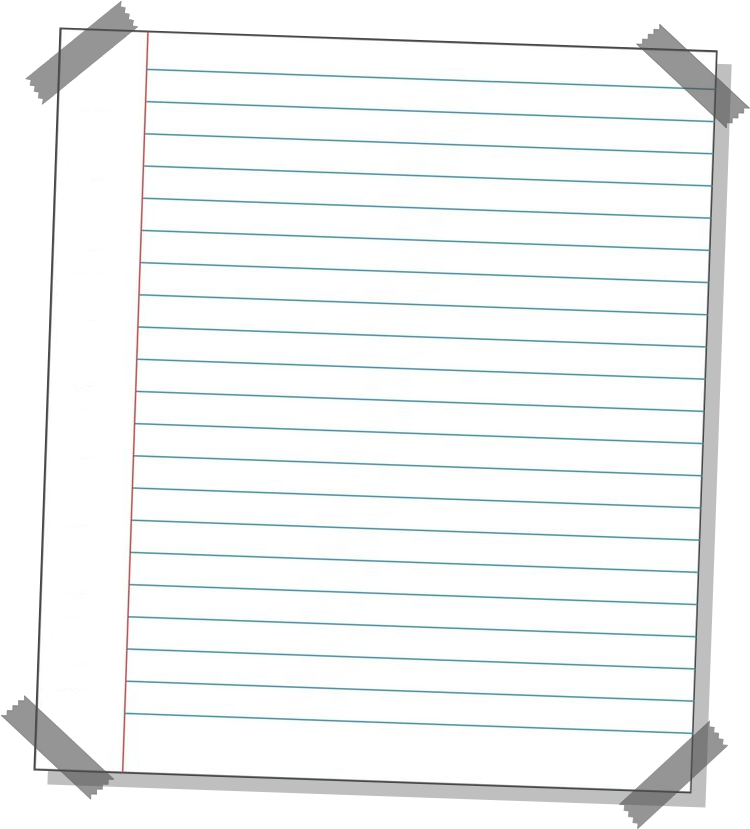
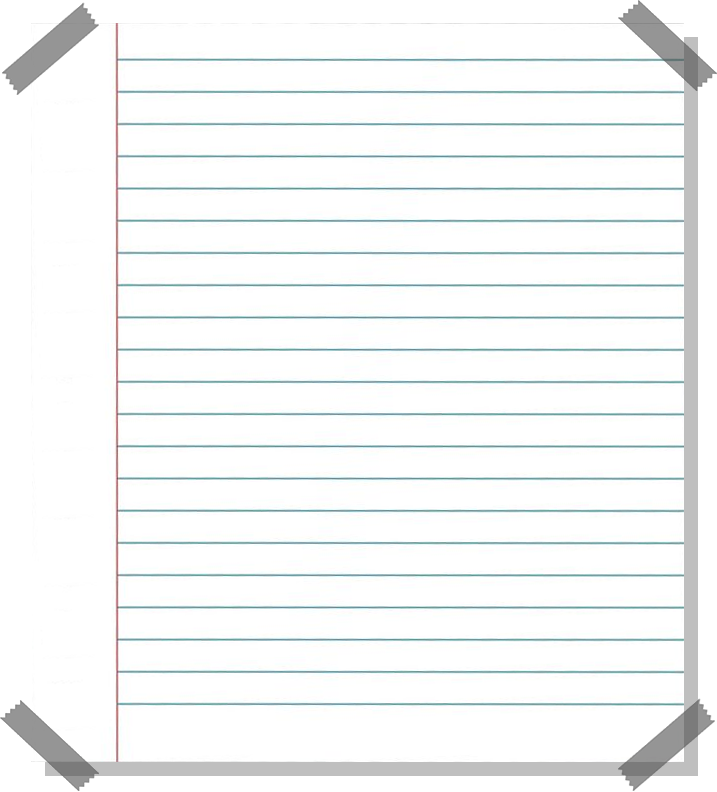
style: mobile styles

Changed region(s): [[0.0, 0.0, 1.0, 1.0]]

diff --git a/src/components/bio-paper/index.module.scss b/src/components/bio-paper/index.module.scss
@@ -1,79 +1,46 @@
 .paper {
   position: relative;
+  display: flex;
 
   .paperImage {
-    @include responsive(
-      width,
-      (
-        lg: $paper-image-lg,
-        md: $paper-image-md,
-        sm: $paper-image-sm,
-      )
-    );
+    transform: rotate(2deg);
+    z-index: 1;
+    max-width: 717px;
+    width: 100%;
+    @include respond-max(xl) {
+      transform: none;
+    }
   }
 
   .signature,
   .text {
+    z-index: 2;
     transform: rotate(2deg);
     position: absolute;
     color: $blue-color;
-    line-height: $paper-line-height-xl;
-    font-size: $paper-text-xl;
+    font-size: clamp(12px, 100vw * 0.045, 28px);
 
-    @include responsive(
-      line-height,
-      (
-        lg: $paper-line-height-lg,
-        md: $paper-line-height-md,
-        sm: $paper-line-height-sm,
-      )
-    );
-
-    @include responsive(
-      font-size,
-      (
-        lg: $paper-text-lg,
-        md: $paper-text-md,
-        sm: $paper-text-sm,
-      )
-    );
+    @include respond-max(xl) {
+      transform: none;
+    }
   }
 
   .text {
-    padding: 10% 7% 0 20%;
+    @include flex-column;
+    aspect-ratio: 540 / 645;
+    margin-left: 18%;
+    margin-top: 8.5%;
+    --lh: 32.5px;
+    line-height: var(--lh);
+    gap: var(--lh);
+    height: 82.3%;
 
     .section {
       @include flex-column();
-      margin-bottom: $paper-line-height-lg;
-
-      @include responsive(
-        margin-bottom,
-        (
-          lg: $paper-line-height-lg,
-          md: $paper-line-height-md,
-          sm: $paper-line-height-sm,
-        )
-      );
-
       .row {
         @include flex();
-
         .title {
-          $paper-title-widths: (
-            lg: $paper-title-width-lg,
-            md: $paper-title-width-md,
-            sm: $paper-title-width-sm,
-          );
-
-          width: $paper-title-width-xl;
-          @include responsive(
-            width,
-            (
-              lg: $paper-title-width-lg,
-              md: $paper-title-width-md,
-              sm: $paper-title-width-sm,
-            )
-          );
+          width: 30%;
         }
       }
     }
@@ -81,7 +48,7 @@
 
   .signature {
     text-decoration: underline;
-    bottom: 12.5%;
+    bottom: 11%;
     right: 10%;
   }
 }

diff --git a/src/components/bio-paper/index.tsx b/src/components/bio-paper/index.tsx
@@ -1,20 +1,44 @@
-import type { ReactNode } from "react"
-import styles from "./index.module.scss"
 import PaperImage from "@/assets/Paper.png"
+import { useLayoutEffect, useRef, type ReactNode } from "react"
+import styles from "./index.module.scss"
 
 export type BioRowProps = {
   title: string
   description: string
 }
-
 export type BioSectionProps = {
   items: BioRowProps[]
 }
 
 export const BioPaper = ({ children }: { children: ReactNode }) => {
+  const textRef = useRef<HTMLDivElement>(null)
+
+  const updateLineHeight = () => {
+    if (!textRef.current) return
+    const height = textRef.current.offsetHeight
+    const value = height / 20
+    if (value !== 0) {
+      textRef.current.style.setProperty("--lh", `${value}px`)
+    }
+  }
+
+  useLayoutEffect(() => {
+    if (!textRef.current) return updateLineHeight()
+    const handleResize = () => updateLineHeight()
+    window.addEventListener("resize", handleResize)
+    const observer = new ResizeObserver(() => updateLineHeight())
+    observer.observe(textRef.current)
+    return () => {
+      window.removeEventListener("resize", handleResize)
+      observer.disconnect()
+    }
+  }, [])
+
   return (
     <div className={styles.paper}>
-      <div className={styles.text}>{children}</div>
+      <div ref={textRef} className={styles.text}>
+        {children}
+      </div>
       <img alt="paper" src={PaperImage} className={styles.paperImage} />
       <div className={styles.signature}>@KarpovDU</div>
     </div>
@@ -34,8 +58,7 @@ export const BioSection = ({ items }: BioSectionProps) => {
 const BioRow = ({ title, description }: BioRowProps) => {
   return (
     <div className={title !== "Description" ? styles.row : ""}>
-      <span className={styles.title}>{title}: </span>
-      <span className={styles.description}>{description}</span>
+      <span className={styles.title}>{title}: </span> <span className={styles.description}>{description}</span>
     </div>
   )
 }

diff --git a/src/styles/_variables.scss b/src/styles/_variables.scss
@@ -11,56 +11,3 @@ $spacing-xl: 40px;
 $spacing-lg: 30px;
 $spacing-md: 20px;
 $spacing-sm: 10px;
-
-// HEADER //
-
-// Text size
-$header-text-xl: 48px;
-$header-text-lg: 36px;
-$header-text-md: 24px;
-$header-text-sm: 14px;
-
-// Header image sizes
-$header-image-xl: 750px;
-$header-image-lg: 550px;
-$header-image-md: 350px;
-$header-image-sm: 250px;
-
-// BIO //
-
-// Portrait image size
-$portrait-image-lg: 300px;
-$portrait-image-md: 200px;
-$portrait-image-sm: 150px;
-
-// PAPER //
-
-// Paper image size
-$paper-image-lg: 550px;
-$paper-image-md: 350px;
-$paper-image-sm: 250px;
-
-// Paper line height
-$paper-line-height-xl: 35px;
-$paper-line-height-lg: 23.8px;
-$paper-line-height-md: 15.2px;
-$paper-line-height-sm: 10.8px;
-
-// Paper font size
-$paper-text-xl: 28px;
-$paper-text-lg: 22px;
-$paper-text-md: 16px;
-$paper-text-sm: 12px;
-
-// Paper title width
-$paper-title-width-xl: 140px;
-$paper-title-width-lg: 110px;
-$paper-title-width-md: 80px;
-$paper-title-width-sm: 60px;
-
-// MAIN TECHNOLOGIES //
-
-$tech-book-width-xl: 450px;
-$tech-book-width-lg: 375px;
-$tech-book-width-md: 300px;
-$tech-book-width-sm: 200px;

diff --git a/src/components/header/index.module.scss b/src/components/header/index.module.scss
@@ -4,17 +4,11 @@
   text-align: center;
   text-transform: uppercase;
   white-space: nowrap;
+  margin: 0 10px;
 
   .headerImage {
-    width: $header-image-xl;
-    @include responsive(
-      width,
-      (
-        lg: $header-image-lg,
-        md: $header-image-md,
-        sm: $header-image-sm,
-      )
-    );
+    max-width: 768px;
+    width: 100%;
   }
 
   h1 {
@@ -22,15 +16,6 @@
     top: 50%;
     left: 50%;
     transform: translate(-50%, -120%);
-    font-size: $header-text-xl;
-
-    @include responsive(
-      font-size,
-      (
-        lg: $header-text-lg,
-        md: $header-text-md,
-        sm: $header-text-sm,
-      )
-    );
+    font-size: clamp(14px, 8vw, 48px);
   }
 }

diff --git a/src/sections/technologies/index.module.scss b/src/sections/technologies/index.module.scss
@@ -20,6 +20,8 @@
       width: unset;
       height: unset;
       @include flex-column(center, center);
+      margin: 0 10vw;
+      max-width: 450px;
       :first-child {
         .react {
           transform: rotate(15deg);
@@ -55,17 +57,8 @@
     .next,
     .reactNative {
       position: absolute;
-      width: 450px;
-
-      @include responsive(
-        width,
-        (
-          xl: $tech-book-width-xl,
-          lg: $tech-book-width-lg,
-          md: $tech-book-width-md,
-          sm: $tech-book-width-sm,
-        )
-      );
+      max-width: 450px;
+      width: 100%;
 
       @include respond-max(xl) {
         position: static;

diff --git a/src/sections/biography/index.module.scss b/src/sections/biography/index.module.scss
@@ -11,18 +11,17 @@
   @include responsive(gap, $gaps);
 
   .portraitImage {
-    @include responsive(
-      width,
-      (
-        lg: $portrait-image-lg,
-        md: $portrait-image-md,
-        sm: $portrait-image-sm,
-      )
-    );
+    transform: rotate(-10deg);
+    max-width: 368px;
+    width: 100%;
+    @include respond-max(xl) {
+      transform: none;
+    }
   }
 
   .content {
     @include flex(center, space-between);
+    gap: 40px;
     @include respond-max(xl) {
       @include flex-column(center, center);
     }

diff --git a/src/sections/biography/index.tsx b/src/sections/biography/index.tsx
@@ -7,7 +7,7 @@ export const Biography = () => {
   const data = biographyData
   return (
     <section className={styles.section}>
-      <Header>Bio & info</Header>
+      <Header>Biography</Header>
       <div className={styles.content}>
         <img alt="my-photo" src={Portrait} className={styles.portraitImage} />
         <BioPaper>
